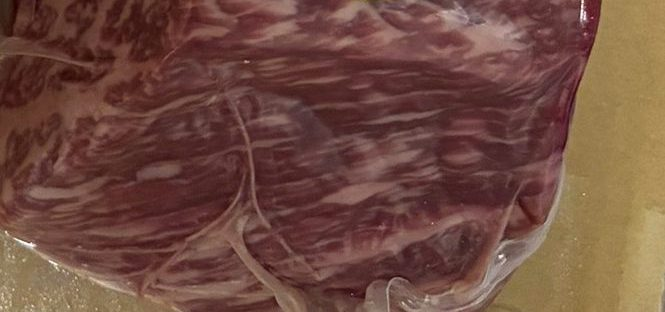
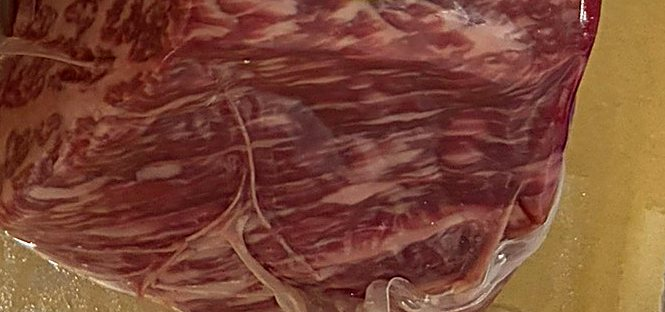
商品写真の色味・明るさを調整（より美味しそうに）
Claude-Session: https://claude.ai/code/session_011LPZr7Ffx5WxPty11X82sR

diff --git a/index.html b/index.html
@@ -309,7 +309,7 @@ const gOpts = p => [300, 600, 900, 1200, 1500];
 const gOk = (p, g) => g >= 300 && g % 300 === 0;
 const MIN_PACK = 300;
 /* 商品写真（写真がある商品だけ表示。タップで拡大） */
-const PHOTOS = { 's-aka': 'img/s-aka.jpg?v=1', 's-shimo': 'img/s-shimo.jpg?v=1', 'st-aka': 'img/st-aka.jpg?v=1', 'st-shimo': 'img/st-shimo.jpg?v=1', 'o-kiri': 'img/o-kiri.jpg?v=1' };
+const PHOTOS = { 's-aka': 'img/s-aka.jpg?v=2', 's-shimo': 'img/s-shimo.jpg?v=2', 'st-aka': 'img/st-aka.jpg?v=2', 'st-shimo': 'img/st-shimo.jpg?v=2', 'o-kiri': 'img/o-kiri.jpg?v=2' };
 function showPhoto(pid) {
   const p = (Customer.C.products || []).find(x => x.id === pid); if (!PHOTOS[pid]) return;
   const d = document.createElement('div'); d.className = 'pview'; d.onclick = () => d.remove();
